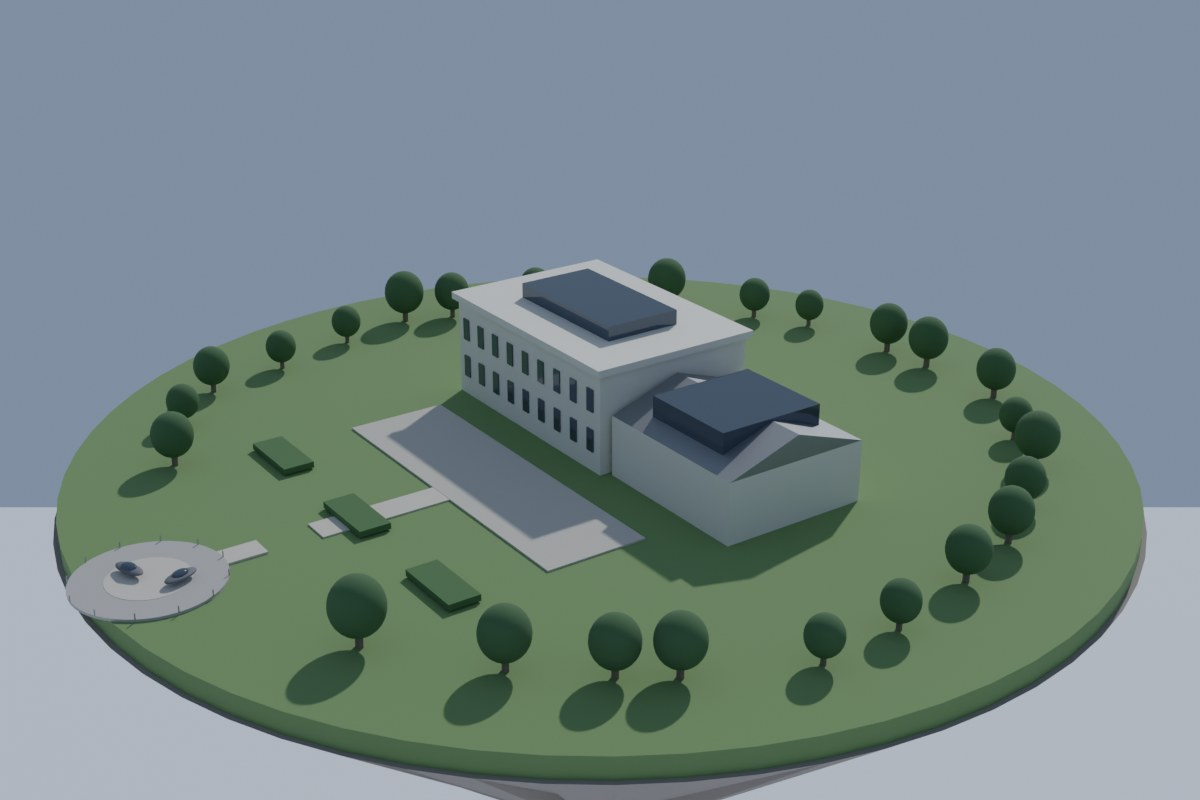
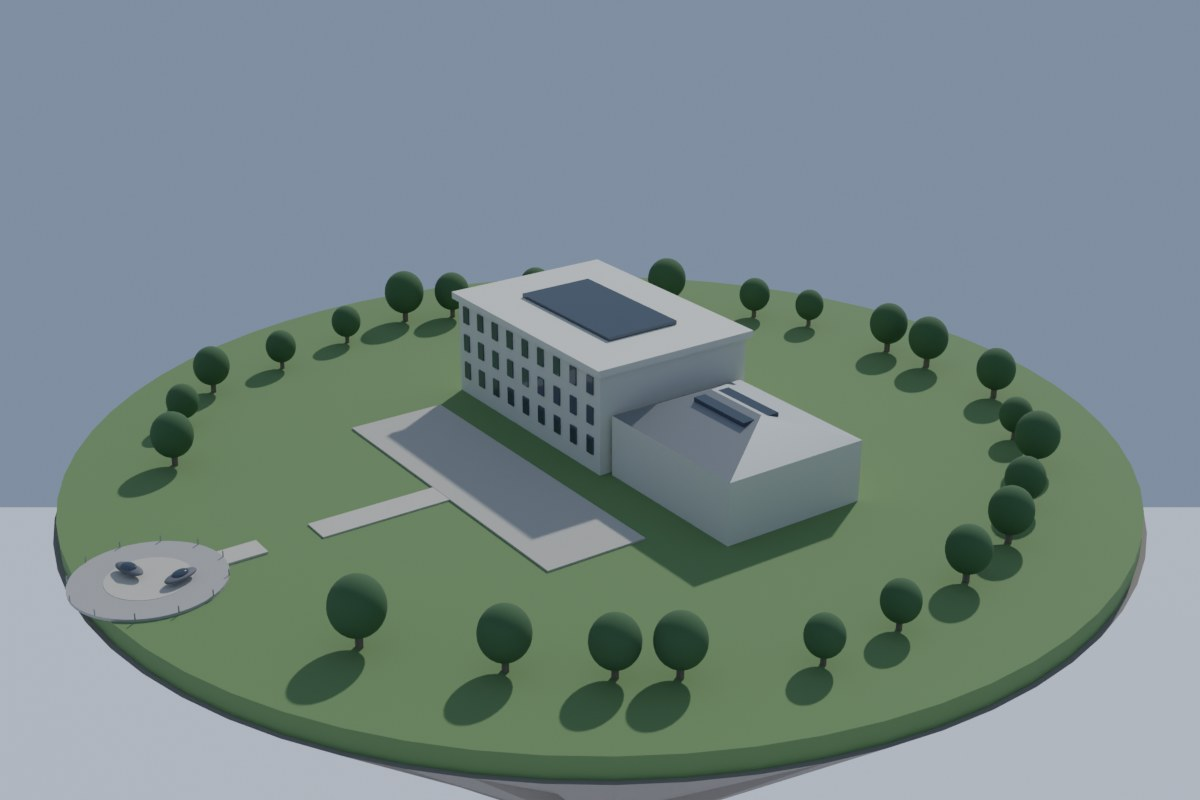
上层其他岛屿 r1：两人设评审 + 修改后重出草稿

diff --git a/blender/upper_islands/isle6.py b/blender/upper_islands/isle6.py
@@ -1,6 +1,6 @@
 """isle6 首相府 draft.【卡】首相去首相府开会（开局五）；位置未写 → 上层【推断】。
 形制【用户 2026-09-28 选方案 A】= blender/landmarks/pm_residence: dark-brick 3-storey + attic Georgian terrace
-(Downing Street), street-end iron gate + sentry box, garden-side white stucco colonnade. 公务停靠平台 kept, hover vehicles only."""
+(Downing Street), street-end iron gate + sentry box, garden-side white stucco colonnade. 公务停靠平台 (= card 访客停靠平台; 「公务」 仓库推断) kept, hover vehicles only."""
 import sys, os, math
 sys.path.insert(0, os.path.dirname(os.path.abspath(__file__)))
 from common import *
@@ -10,8 +10,8 @@ def build():
     box(0, -20, 0, 90, 14, .3, 'granite')  # the street (cul-de-sac)
     box(0, -30, 0, 90, 6, .3, 'path')
     for i in range(5):  # terrace houses, slightly varied heights
-        h = 13 + (i % 2) * 1.2
-        box(-32 + i * 16, -6, 0, 15.8, 12, h, 'brick'); box(-32 + i * 16, -6, h, 16, 12.4, .8, 'white')
+        h = (12, 14.5, 13, 15.5, 12.8)[i]; dy = 1 if i == 2 else 0
+        box(-32 + i * 16, -6 + dy, 0, 15.8, 12, h, 'brick'); box(-32 + i * 16, -6, h, 16, 12.4, .8, 'white')
         box(-32 + i * 16, -6, h + .8, 15, 10, 3.4, 'slate')  # mansard attic
         for c in (-5, 0, 5):
             cyl(-32 + i * 16 + c, -.5, h + .8, .5, 5, 'brick', 8)  # chimney stacks
@@ -20,9 +20,9 @@ def build():
             for w in (-5, -2.5, 2.5, 5):
                 box(-32 + i * 16 + w, -12.1, 3.5 + r * 3.3, 1.2, .2, 2, 'white')
     box(-44, -20, .3, .4, 14, 3, 'iron'); box(-44, -12, .3, 2.5, 2.5, 3, 'white')  # gate + sentry box
-    box(0, 12, 0, 70, 5, 6, 'stucco')  # garden colonnade
+    box(0, 2.5, 0, 70, 5, 6, 'stucco')  # garden colonnade
     for i in range(12):
-        cyl(-33 + i * 6, 9.8, 0, .5, 6, 'white', 10)
+        cyl(-33 + i * 6, 4.8, 0, .5, 6, 'white', 10)
     box(0, 40, 0, 90, 40, .35, 'lawn'); box(0, 40, .35, 60, 2, .2, 'path')
     ring_trees(80, 30, 6, 1.1, gap=(math.radians(-150), .4))
     pad(-72, -45, 13, math.radians(-150), 20); vehicle(-70, -44, 0, .8)

diff --git a/blender/upper_islands/isle10.py b/blender/upper_islands/isle10.py
@@ -1,18 +1,18 @@
 """isle10 凯莉的宅邸 draft.【卡】开局三的计划地点；卡未写层与位置 → 上层【用户】, 落在 isle10【推断】。
 Needs one recognisable main house vs. the generic manors: compact Regency white-stucco villa with a full-height bow
-and Ionic portico (Belsay Hall / Sezincote-less Regency villa refs), walled garden. Not 维克多庄园 (another place, not mapped)."""
+and Ionic portico (Sezincote / Southill refs; style 仓库推断), walled garden. Not 维克多庄园 (another place, not mapped)."""
 import sys, os, math
 sys.path.insert(0, os.path.dirname(os.path.abspath(__file__)))
 from common import *
 
 def build():
     island(85, 10)
-    box(0, 10, 0, 34, 22, 13, 'stucco'); roof(0, 10, 13, 34, 22, 4, 'slate', 'x', 11)
-    cyl(0, 21, 0, 8, 13, 'stucco', 32); cyl(0, 21, 13, 8.3, 3, 'slate', 32, 1)  # garden-front bow
-    box(0, -2, 0, 12, 4, 11, 'stucco'); roof(0, -2, 11, 12, 4.5, 2.5, 'stucco')
+    box(0, 10, 0, 42, 26, 14, 'stucco'); roof(0, 10, 14, 42, 26, 4, 'slate', 'x', 13)
+    cyl(21, 10, 0, 8, 14, 'stucco', 32); cyl(21, 10, 14, 8.3, 3, 'slate', 32, 1)  # side-elevation bow
+    box(0, -5, 0, 12, 4, 12, 'stucco'); roof(0, -5, 12, 12, 4.5, 2.5, 'stucco', 'y')
     for i in range(4):
-        cyl(-4.5 + i * 3, -3.5, 0, .45, 11, 'white', 10)
-    box(-24, 6, 0, 12, 14, 7, 'stucco'); box(-24, 6, 7, 12.4, 14.4, .5, 'slate')  # service wing
+        cyl(-4.5 + i * 3, -7.5, 0, .5, 12, 'white', 10)
+    box(-27, 6, 0, 12, 14, 7, 'stucco'); box(-27, 6, 7, 12.4, 14.4, .5, 'slate')  # service wing
     # walled garden
     for (x, y, sx, sy) in ((30, 30, 30, 1), (30, 60, 30, 1), (15, 45, 1, 30), (45, 45, 1, 30)):
         box(x, y - 15, 0, sx, sy, 2.5, 'redbrick')

diff --git a/blender/upper_islands/isle30.py b/blender/upper_islands/isle30.py
@@ -9,15 +9,15 @@ def build():
     island(115, 30)
     # main villa (v7 style kept, 仓库推断): stone podium + glass tower
     box(-25, 10, 0, 60, 36, 12, 'portland'); box(-25, 10, 12, 52, 30, 10, 'glass')
-    box(-38, 18, 22, 18, 18, 34, 'glass'); box(-38, 18, 56, 20, 20, 1.2, 'portland')
+    box(-38, 18, 22, 18, 18, 18, 'glass'); roof(-38, 18, 40, 20, 20, 5, 'lead', 'x', 10)
     box(-25, 10, 22, 54, 32, .8, 'portland')
     # winter banquet hall / ballroom (仓库推断 per card: 冬季宴会): double-cube hall, tall windows, hipped lead roof
-    box(30, 10, 0, 50, 26, 16, 'portland'); roof(30, 10, 16, 50, 26, 7, 'lead', 'x', 10)
-    for i in range(8):
-        box(8 + i * 6.3, -3.1, 3, 3, .4, 10, 'glass')
-    box(30, -8, 0, 22, 10, 11, 'portland'); roof(30, -8, 11, 22, 10, 3, 'portland')   # porte-cochere
+    box(30, 10, 0, 36, 18, 18, 'portland'); roof(30, 10, 18, 36, 18, 6, 'lead', 'x', 9)
+    for i in range(6):
+        box(15 + i * 6, .9, 4, 2.6, .4, 11, 'glass')
+    box(53, 10, 0, 10, 14, 11, 'portland'); roof(53, 10, 11, 10, 14, 3, 'portland', 'y')   # porte-cochere
     for i in range(4):
-        cyl(22 + i * 5.3, -13, 0, .8, 11, 'white', 12)
+        cyl(58.5, 4.5 + i * 3.7, 0, .8, 11, 'white', 12)
     box(3, 10, 0, 8, 12, 10, 'glass')  # glazed link
     # winter garden terrace + parterre
     box(0, -40, 0, 70, 24, .4, 'gravel')

diff --git a/blender/upper_islands/isle9.py b/blender/upper_islands/isle9.py
@@ -8,15 +8,13 @@ from common import *
 def build():
     island(100, 9)
     box(-15, 10, 0, 50, 34, 20, 'portland'); box(-15, 10, 20, 52, 36, 1.4, 'portland')  # palazzo w/ cornice
-    for r in range(2):
+    for r in range(3):
         for i in range(9):
-            box(-37 + i * 5.5, -7.1, 4 + r * 8, 2, .4, 4.5, 'glass')
-    box(-15, 10, 21.4, 30, 16, 3, 'glass')  # glazed atrium (Reform Club saloon)
-    box(28, 10, 0, 34, 30, 12, 'portland'); roof(28, 10, 12, 34, 30, 5, 'lead', 'x', 0)  # saleroom
-    box(28, 10, 12, 20, 22, 5.5, 'glass')  # rooflight lantern
+            box(-37 + i * 5.5, -7.1, 3.5 + r * 6, 2, .4, 3.5, 'glass')
+    box(-15, 10, 21.4, 30, 16, .8, 'glass')  # glazed atrium (Reform Club saloon)
+    box(28, 10, 0, 34, 30, 12, 'portland'); roof(28, 10, 12, 34, 30, 5, 'lead', 'x', 10)  # saleroom
+    box(28, 10, 14, 14, 8, 2.5, 'glass')  # rooflight lantern
     box(0, -25, 0, 70, 20, .35, 'gravel'); box(0, -45, 0, 6, 30, .3, 'path')
-    for i in range(3):
-        box(-30 + i * 30, -52, .3, 14, 6, 1.2, 'hedge')
     ring_trees(82, 30, 9, 1.2, gap=(math.radians(-90), .4))
     pad(0, -90, 13, math.radians(-90), 20); vehicle(-3, -92, 0, .3); vehicle(4, -86, 0, 1.9)
 if __name__ == '__main__':

diff --git a/blender/upper_islands/isle25.py b/blender/upper_islands/isle25.py
@@ -8,11 +8,11 @@ from common import *
 def build():
     island(100, 25)
     for (x, y, sx, sy) in ((0, 25, 60, 12), (0, -15, 60, 12), (-24, 5, 12, 28), (24, 5, 12, 28)):
-        box(x, y, 0, sx, sy, 10, 'portland'); box(x, y, 10, sx - 1, sy - 1, .6, 'lead')
+        box(x, y, 0, sx, sy, 10, 'portland'); roof(x, y, 10, sx, sy, 4, 'slate', 'x' if sx > sy else 'y')
     box(0, 5, 0, 30, 20, .3, 'gravel'); cyl(0, 5, .3, 2.5, .6, 'water')
     box(-55, -5, 0, 26, 40, 7, 'glass'); box(-55, -5, 7, 27, 41, .6, 'steel')  # glasshouse/lab hall
-    box(50, 10, 0, 22, 22, 6, 'portland'); cyl(50, 10, 6, 7, 5, 'copper', 32, 1)  # small observatory-style roof
-    cyl(35, -40, 0, 1.2, 28, 'steel', 12)  # plain services mast
+    box(50, 10, 0, 14, 14, 6, 'portland'); dome(50, 10, 6, 6, 'copper', .9)  # small observatory-style roof
+    cyl(-30, -25, 0, 1.0, 12, 'steel', 12)  # plain services mast
     ring_trees(82, 32, 25, 1.1, gap=(math.radians(-40), .4))
     pad(60, -58, 11, math.radians(-40), 16)
 if __name__ == '__main__':

diff --git a/blender/upper_islands/isle29.py b/blender/upper_islands/isle29.py
@@ -13,10 +13,11 @@ def build():
     box(0, 2.5, 0, 14, 2, 15, 'portland'); roof(0, 2.5, 15, 14, 2.2, 3, 'portland')
     for i in range(4):
         cyl(-5.4 + i * 3.6, 1.2, 0, .6, 12, 'white', 10)
-    box(0, -25, 0, 70, 36, .35, 'gravel')      # parade forecourt
+    box(0, -22, 0, 50, 28, .35, 'gravel')      # parade forecourt
     for i in (-1, 0, 1):
-        box(i * 14, -34, .35, 3, 3, 2.2, 'steel')  # abstract plinths (armour props, neutral)
+        box(i * 12, -28, .35, 4, 4, 3, 'steel')  # abstract plinths (armour props, neutral)
     box(0, -44, 0, 6, 36, .3, 'path')
+    cyl(0, 12, 21, 2.5, 5, 'white', 16); dome(0, 12, 26, 2.6, 'lead', .8)
     box(-60, 20, 0, 30, 30, .3, 'gravel'); box(-60, 20, .3, 26, 10, 5, 'lime')  # stables-turned-garage 仓库推断
     ring_trees(80, 30, 29, 1.2, gap=(math.radians(-90), .4))
     pad(0, -88, 12, math.radians(-90), 18)

diff --git a/blender/upper_islands/isle2.py b/blender/upper_islands/isle2.py
@@ -9,7 +9,12 @@ def build():
     box(0, 8, 0, 44, 12, 12, 'redbrick'); roof(0, 8, 12, 44, 12, 6, 'slate', 'x')
     for sx in (-1, 1):
         box(sx * 25, 8, 0, 10, 34, 12, 'redbrick'); roof(sx * 25, 8, 12, 10, 34, 6, 'slate', 'y')
-        box(sx * 25, -10, 12, 10, .6, 4, 'redbrick')  # gable end
+    for sx in (-1, 1):
+        cyl(sx * 30, -9, 12, 2, 6, 'redbrick', 8); cyl(sx * 30, -9, 18, 2.1, 3, 'lead', 8, .2)
+        for k, w in enumerate((10, 7, 4)):
+            box(sx * 25, -9.7, 12 + k * 1.3, w, .6, 1.3, 'redbrick')
+        for y in (0, 16):
+            cyl(sx * 25, y, 16, .7, 5, 'redbrick', 8)
     for x in (-8, 8):
         cyl(x, 8, 12, .8, 9, 'redbrick', 8)
     box(0, -20, 0, 50, 22, .35, 'gravel')

diff --git a/docs/upper-islands-references.md b/docs/upper-islands-references.md
@@ -12,7 +12,7 @@
 
 ## isle30 罗斯柴尔德庄园 · 悬浮岛 R-02
 【卡】伊莎贝拉家族的庄园，冬季宴会的举办地（视觉样例·请柬）。位置、风格【推断】。
-草稿：保留 v7 的玻璃塔楼别墅，新增冬季宴会用的**宴会厅 / 舞厅**（双立方大厅 + 高窗 + 铅皮四坡顶 + 门廊车道），玻璃连廊接主楼，冬园台地花坛；岸边停靠平台（原「飞艇港」已改）。
+草稿：保留 v7 的玻璃塔楼别墅（塔楼降到 18 m + 铅皮顶），新增冬季宴会用的**宴会厅 / 舞厅【推断】**（双立方大厅 + 高窗 + 铅皮四坡顶 + 门廊车道），玻璃连廊接主楼，冬园台地花坛；岸边停靠平台（原「飞艇港」已改）。
 
 | # | 参考 | 借鉴点 | 链接 |
 |---|------|--------|------|
@@ -41,7 +41,7 @@
 | E3 | 皇家格林尼治天文台 | 小型观测圆顶 | https://en.wikipedia.org/wiki/Royal_Observatory,_Greenwich |
 
 ## isle9 庄园主联盟会所
-【卡】庄园主联盟是顶级贵族的非官方组织，办拍卖会和品鉴会；制度纪念日的大型拍卖会在上层。**固定会所本身与位置【推断】**。品鉴宴由庄园主轮流做东【卡】→ 会所不画专属宴会厅。
+【卡】庄园主联盟是顶级贵族的非官方组织，办拍卖会和品鉴会；制度纪念日的大型拍卖会在上层（出处 `card-omissions.md` L91 B5）。**固定会所本身与位置【推断】**。品鉴宴由庄园主轮流做东【卡】→ 会所不画专属宴会厅。
 草稿：蓓尔美尔街俱乐部式意大利宫殿楼（中庭玻璃顶）+ 顶光拍卖厅。
 
 | # | 参考 | 借鉴点 | 链接 |
@@ -52,16 +52,16 @@
 
 ## isle10 凯莉的宅邸
 【卡】开局三的计划地点；层与位置卡未写 → 上层【用户】，落 isle10【推断】。维克多庄园是另一处，不落点【卡】。
-草稿：要一栋和通用英式庄园区分得开的主楼 → 摄政风白灰泥别墅，花园面整高弓形凸窗 + 爱奥尼门廊，旁接围墙菜园。
+草稿：要一栋和通用英式庄园区分得开的主楼 → 摄政风白灰泥别墅（风格【推断】），侧立面整高弓形凸窗 + 爱奥尼门廊，旁接围墙菜园。
 
 | # | 参考 | 借鉴点 | 链接 |
 |---|------|--------|------|
-| K1 | 贝尔赛厅 | 摄政希腊复兴：方正体块 + 柱廊 | https://en.wikipedia.org/wiki/Belsay_Hall |
+| K1 | 塞津科特庄园 | 摄政期乡间别墅：侧立面弓形体量 | https://en.wikipedia.org/wiki/Sezincote_House |
 | K2 | 摄政公园周边别墅（The Holme） | 白灰泥 + 弓形凸窗的城郊别墅 | https://en.wikipedia.org/wiki/The_Holme |
 | K3 | 围墙菜园 | 英式围墙菜园布局 | https://en.wikipedia.org/wiki/Walled_garden |
 
 ## isle6 首相府
-【卡】首相去首相府开会（开局五）；位置未写 → 上层【推断】。形制【用户 2026-09-28 方案 A】，与 `blender/landmarks/pm_residence/` 一致：深色砖三层 + 阁楼联排、街口铁门 + 岗亭、花园侧白色灰泥柱廊；「公务停靠平台」保留，只放悬浮载具。
+【卡】首相去首相府开会（开局五）；位置未写 → 上层【推断】。形制【用户 2026-09-28 方案 A】，与 `blender/landmarks/pm_residence/` 一致：深色砖三层 + 阁楼联排、街口铁门 + 岗亭、花园侧白色灰泥柱廊；「公务停靠平台」保留（卡里叫「访客停靠平台」，「公务」为【推断】），只放悬浮载具。
 参考沿用 `landmark-references.md` ② 的 P 组，另加：
 
 | # | 参考 | 借鉴点 | 链接 |

diff --git a/ROADMAP.md b/ROADMAP.md
@@ -76,7 +76,7 @@
   - [ ] 公开仓库整理：README 改为通用介绍，本卡内容放 `examples/`
 - [ ] **上层其他岛屿按设定要改的**（2026-09-27 整理；来源 `docs/card-digest.md`、`docs/card-omissions.md`、`map/data/maps.json`；【卡】= 卡里写的，【推断】= 仓库推断 / 自设，【用户】= 用户决定）
   - 全层通用：每岛一座私人庄园、各带结界【卡】；岛间只有私人悬浮载具、无公共交通【卡】→ 岸外停靠平台只放悬浮载具（v7 已改：罗斯柴尔德、伊甸访客平台；附属「机库」改悬浮载具库）；航线叠加层用户已决定永久推迟【用户】；上层俯瞰中层「像铺在脚下的电路板」、清晨有云海【卡】（多时段草稿已备）
-  - **进度 2026-09-28（upper_islands r1）**：七座岛（isle30 R-02 / 29 / 25 / 9 / 10 / 6 / 2）已出参考板 `docs/upper-islands-references.md` + 体块草稿 `blender/upper_islands/<id>.py` → `docs/drafts/upper_isle_<id>_draft.jpg`；未动瓦片、未出 8K；两人设评审待记入 `docs/reviews/upper_islands_r1.md`
+  - **进度 2026-09-28（upper_islands r1）**：七座岛（isle30 R-02 / 29 / 25 / 9 / 10 / 6 / 2）已出参考板 `docs/upper-islands-references.md` + 体块草稿 `blender/upper_islands/<id>.py` → `docs/drafts/upper_isle_<id>_draft.jpg`；未动瓦片、未出 8K；两人设评审（建筑写实 / 卡忠实度）已做并修完，见 `docs/reviews/upper_islands_r1.md`。**待用户看草稿**，点头后并进下一次上层整图重渲
   - 伊甸（eden）：v7 底图已贴 estate2 r4 俯视（`tools/eden_into_upper.py`）【用户】；标记锚点已改取 estate2 的停靠平台坐标、岛轮廓改为 estate2 岛缘（`tools/eden_anchor_upper.py`，tests/eden_anchor.test.mjs 校验）【推断】；下次整图重渲时把伊甸岛改为只出岛体（或直接跳过旧伊甸），重渲后再跑一次该工具（`--data-only` 导出会写回旧锚点）
   - isle2：原「大主教府邸」礼拜堂已随 v7 去掉【卡：上层没有教区；大主教府邸并入辉光大教堂别名】；现在是普通英式庄园，无标记【推断】
   - isle6 首相府：卡只写首相去首相府开会、未写位置【卡】；放上层【推断】；形制改为唐宁街式乔治时代砖砌联排【用户】→ 现 `role_pm_residence` 是「对称官邸 + 两翼 + 荣誉庭院」，要改成联排街面 + 背面花园。**用户 2026-09-28 已选方案 A**，三维精简版已建（`blender/landmarks/pm_residence/`，`map/props/pm_residence/`）：**上层 isle6 底图必须跟着改成这个形制**（深色砖三层 + 阁楼联排、街口铁门 + 岗亭、花园侧白色灰泥柱廊），下次上层重渲时做；「公务停靠平台」保留、只放悬浮载具

diff --git a/docs/reviews/upper_islands_r1.md b/docs/reviews/upper_islands_r1.md
@@ -1,0 +1,27 @@
+# 上层其他岛屿 r1 评审（2026-09-28）
+
+对象：`docs/upper-islands-references.md`、`blender/upper_islands/*.py`、`docs/drafts/upper_isle_*_draft.jpg`（7 岛）。两位人设各一轮，修完后重出草稿；每资产最多 2 轮，本轮后不再迭代，等用户看。
+
+## 人设 1：建筑写实
+
+| 岛 | 结论 | 问题 → 已改 |
+|----|------|-------------|
+| isle30 R-02 | FIX | 宴会厅不是双立方 → 36×18×18；门廊挡高窗 → 移到山墙端；34 m 玻璃塔像写字楼 → 18 m + 铅皮四坡顶 |
+| isle29 | PASS 小改 | 前庭太大、基座像碎块 → 50×28 前庭、4×4×3 基座；加切尔西式小穹顶 |
+| isle25 | FIX | 平顶像 60 年代 → 石板坡顶；「天文台」是锥 → 穹顶；28 m 桅杆易被读成气候塔 → 12 m、贴侧翼 |
+| isle9 | FIX | 宫殿楼只有 2 排窗 → 3 排；中庭玻璃盒像顶层加建 → 贴平；拍卖厅天窗穿出屋面 → 四坡 + 矮天窗；删散乱绿篱 |
+| isle10 | FIX | 门廊柱藏在体块里 → 外移、山花朝前；主楼太小 → 42×26；弓形窗背对镜头 → 移到侧立面；参考 K1 贝尔赛厅风格不符 → 换塞津科特 |
+| isle6 | PASS 小改 | 花园柱廊离后墙 3.5 m 悬空 → 贴后墙；五户一模一样像营房 → 檐高各异、第 3 户退 1 m |
+| isle2 | PASS 小改 | 加角塔（洋葱顶）、阶梯山墙、翼楼烟囱 |
+
+未改（记录）：R4 范斯沃斯住宅只为保留 v7 玻璃风格而留；A3 指向佳士得公司页，可接受。
+
+## 人设 2：卡忠实度（出处行号指 `card-digest.md`）
+
+全部 PASS：交通只有私人悬浮载具 + 停靠平台（L12、L32、L98、L226），无飞艇；建筑中性；只用卡原名。已改：
+- isle30：宴会厅本身标【推断】（卡只写冬季宴会举办地，L47、L179）。
+- isle6：「公务停靠平台」注明卡里叫「访客停靠平台」（L98），「公务」为【推断】；柱廊贴后墙，与 `blender/landmarks/pm_residence/` 一致。
+- isle10：风格标【推断】；维克多庄园不落点（L86）。
+- isle9：制度纪念日上层拍卖的出处改为 `card-omissions.md` L91（B5）。
+- isle2：无礼拜堂 / 尖塔 / 钟楼（L16、L157、L66）。isle25：气候调节塔不放（L49）。
+待用户：上层精英学院选岛。
